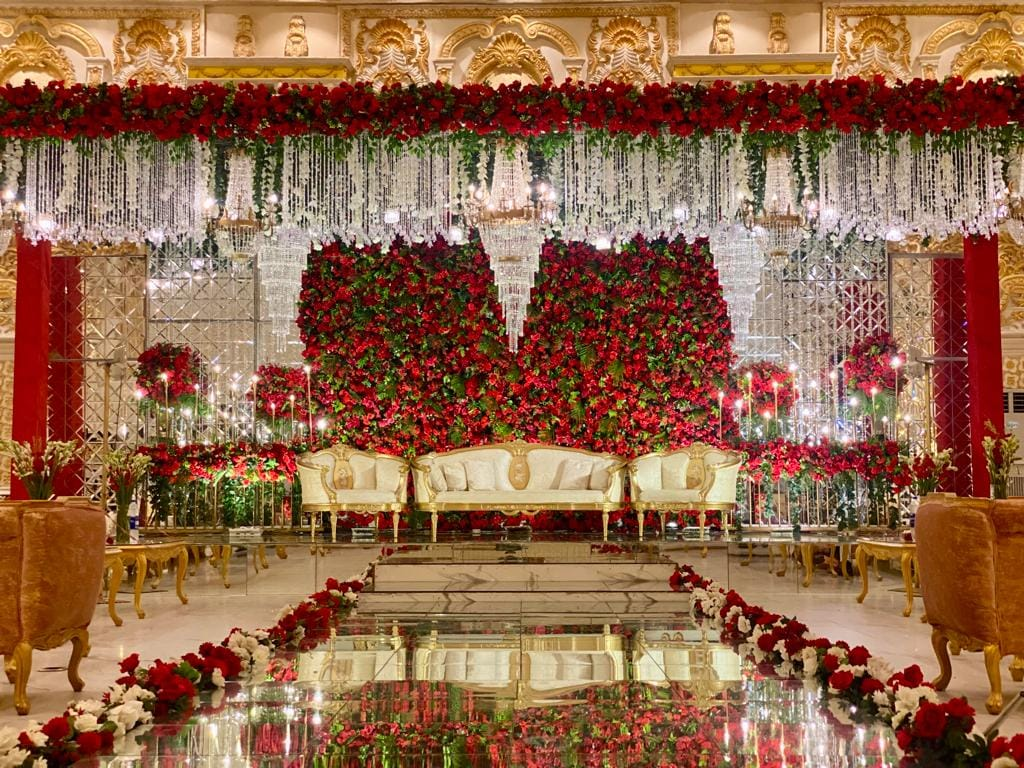
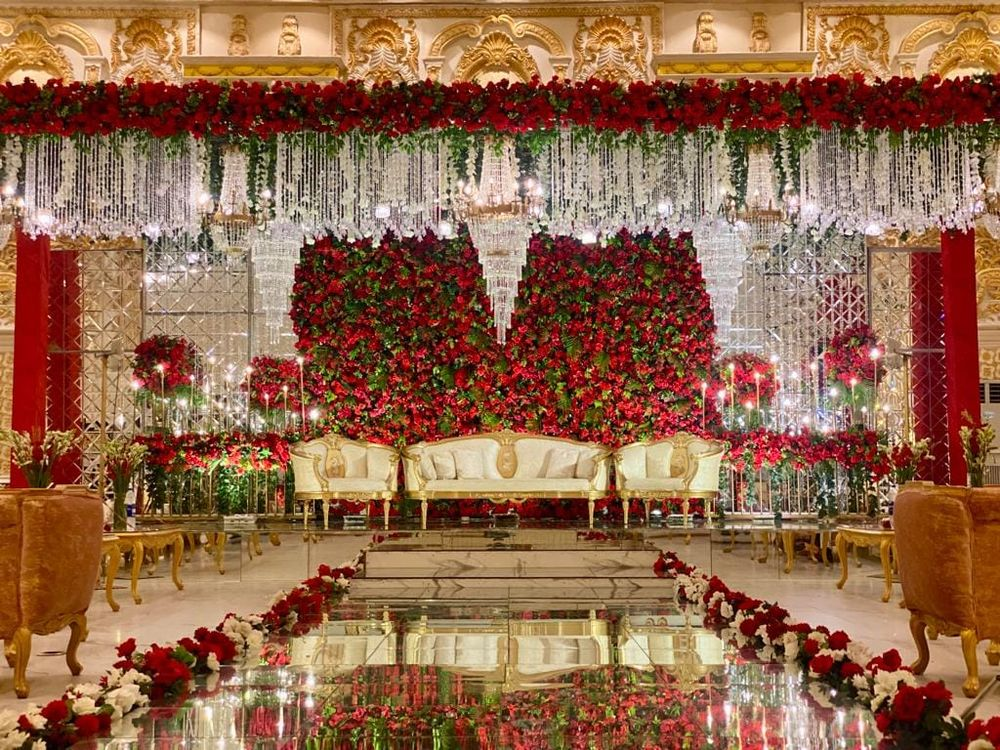
Speed up load time and prep the site for real performance
- Removed 3 orphaned images (hero-hall-wide, story-hall-tables,
  story-stage-wide) that weren't referenced anywhere in the code but
  were still shipping to every visitor.
- Resized oversized images down to a sane max dimension and
  recompressed everything at a consistent web-optimized JPEG quality -
  image payload down ~29% plus the removed dead weight.
- Code-split every below-the-fold section (Story, Gallery, Videos,
  Testimonials, Why, FAQ, Contact, Services, Packages, Footer,
  WaFloat, ScrollTop) behind React.lazy + a single Suspense boundary,
  so only Header/Hero/CategoryNav/Marquee block first paint. Cuts the
  critical-path JS from ~313KB to ~279KB and lets the rest load in
  parallel instead of blocking.
- Made the single-file build (vite-plugin-singlefile) opt-in via
  \`npm run build:singlefile\` instead of the default - the standard
  chunked build is what actually gets deployed now, since separate
  hashed JS/CSS files are cacheable and parallel-loadable, unlike one
  monolithic inlined HTML file.
- Added will-change:transform to the custom cursor elements.

Also redeployed the live site on this build and cleaned up stray
files (.git, src/, package.json, etc.) that were left in the web root
by the old (now-disconnected) GitHub auto-deploy.

diff --git a/src/App.jsx b/src/App.jsx
@@ -1,4 +1,4 @@
-import { useState } from 'react';
+import { lazy, Suspense, useState } from 'react';
 import { useScrollTracking } from './hooks/useScrollTracking.js';
 import ScrollProgress from './components/ScrollProgress.jsx';
 import CustomCursor from './components/CustomCursor.jsx';
@@ -6,18 +6,21 @@ import Header from './components/Header.jsx';
 import Hero from './components/Hero.jsx';
 import CategoryNav from './components/CategoryNav.jsx';
 import Marquee from './components/Marquee.jsx';
-import Story from './components/Story.jsx';
-import Gallery from './components/Gallery.jsx';
-import Videos from './components/Videos.jsx';
-import Testimonials from './components/Testimonials.jsx';
-import Why from './components/Why.jsx';
-import FAQ from './components/FAQ.jsx';
-import Contact from './components/Contact.jsx';
-import Services from './components/Services.jsx';
-import Packages from './components/Packages.jsx';
-import Footer from './components/Footer.jsx';
-import WaFloat from './components/WaFloat.jsx';
-import ScrollTop from './components/ScrollTop.jsx';
+
+// below-the-fold sections: code-split so they don't block the initial
+// paint of the hero, which is what visitors actually wait on
+const Story = lazy(() => import('./components/Story.jsx'));
+const Gallery = lazy(() => import('./components/Gallery.jsx'));
+const Videos = lazy(() => import('./components/Videos.jsx'));
+const Testimonials = lazy(() => import('./components/Testimonials.jsx'));
+const Why = lazy(() => import('./components/Why.jsx'));
+const FAQ = lazy(() => import('./components/FAQ.jsx'));
+const Contact = lazy(() => import('./components/Contact.jsx'));
+const Services = lazy(() => import('./components/Services.jsx'));
+const Packages = lazy(() => import('./components/Packages.jsx'));
+const Footer = lazy(() => import('./components/Footer.jsx'));
+const WaFloat = lazy(() => import('./components/WaFloat.jsx'));
+const ScrollTop = lazy(() => import('./components/ScrollTop.jsx'));
 
 function SectionDivider() {
   return <div className="section-divider-line" />;
@@ -37,27 +40,29 @@ export default function App() {
       <CategoryNav onSelectTab={setActiveServiceTab} />
       <Marquee />
 
-      <Story />
-      <SectionDivider />
-      <Gallery />
-      <SectionDivider />
-      <Videos />
-      <SectionDivider />
-      <Testimonials />
-      <SectionDivider />
-      <Why />
-      <SectionDivider />
-      <FAQ />
-      <SectionDivider />
-      <Contact />
-      <SectionDivider />
-      <Services activeTab={activeServiceTab} onSelectTab={setActiveServiceTab} />
-      <SectionDivider />
-      <Packages />
+      <Suspense fallback={null}>
+        <Story />
+        <SectionDivider />
+        <Gallery />
+        <SectionDivider />
+        <Videos />
+        <SectionDivider />
+        <Testimonials />
+        <SectionDivider />
+        <Why />
+        <SectionDivider />
+        <FAQ />
+        <SectionDivider />
+        <Contact />
+        <SectionDivider />
+        <Services activeTab={activeServiceTab} onSelectTab={setActiveServiceTab} />
+        <SectionDivider />
+        <Packages />
 
-      <WaFloat />
-      <ScrollTop show={showScrollTop} />
-      <Footer />
+        <WaFloat />
+        <ScrollTop show={showScrollTop} />
+        <Footer />
+      </Suspense>
     </>
   );
 }

diff --git a/vite.config.js b/vite.config.js
@@ -2,9 +2,16 @@ import { defineConfig } from 'vite';
 import react from '@vitejs/plugin-react';
 import { viteSingleFile } from 'vite-plugin-singlefile';
 
+// Standard build (default): separate hashed JS/CSS chunks, cacheable and
+// parallel-loadable - fastest for real visitors, use this for deploys.
+// Single-file build (opt-in via SINGLEFILE=1): everything inlined into one
+// index.html - slower to load but simplest for a one-shot manual upload.
 export default defineConfig(({ command }) => ({
-  plugins: [react(), ...(command === 'build' ? [viteSingleFile()] : [])],
+  plugins: [react(), ...(command === 'build' && process.env.SINGLEFILE ? [viteSingleFile()] : [])],
   server: {
     port: Number(process.env.PORT) || 5173,
+  },
+  build: {
+    sourcemap: false,
   },
 }));

diff --git a/src/index.css b/src/index.css
@@ -842,8 +842,10 @@ body.custom-cursor-active .btn{cursor:none;}
 .custom-cursor-dot{
   position:fixed;top:0;left:0;width:8px;height:8px;margin:-4px 0 0 -4px;
   border-radius:50%;background:var(--gold);pointer-events:none;z-index:99999;
+  will-change:transform;
 }
 .custom-cursor-ring{
   position:fixed;top:0;left:0;width:36px;height:36px;margin:-18px 0 0 -18px;
   border-radius:50%;border:1.5px solid var(--gold);pointer-events:none;z-index:99998;
+  will-change:transform;
 }
